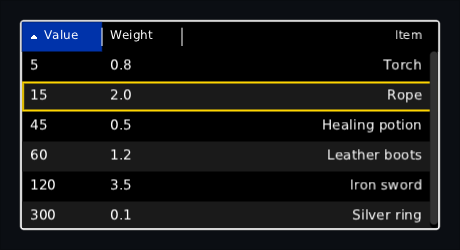
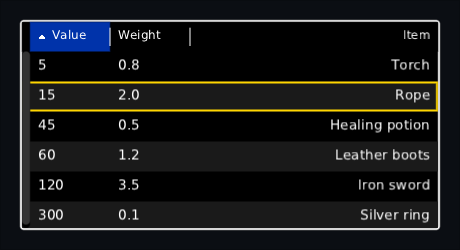
fix: right-to-left scrollbars sat on the wrong side
In a right-to-left screen the text begins at the right edge, which is exactly
where the up-and-down scrollbar was pinned, so the bar lay across the first
letter or two of every line. Sideways bars were already mirrored; vertical ones
were not.

The bar now hangs on the edge the lines end at: still the right in an ordinary
screen, the left in a mirrored one. Done in ScrollArea, LazyList and LazyGrid,
which each place their own bar.

Two knock-ons went with it. A row narrower than a vertical lazy list used to sit
against the left whichever way the screen read, so the moved bar would have
covered it; it now starts against the right, as a scroll area's contents and a
grid's cells already did. And a Table keeps a gutter for its bar so its titles
line up with its cells: that gutter is now on the left in a mirrored table,
which is the one wiki picture that changed.

diff --git a/composegl-ui/src/commonTest/kotlin/dev/wildware/composegl/ui/widget/MirroredScrollingUiTest.kt b/composegl-ui/src/commonTest/kotlin/dev/wildware/composegl/ui/widget/MirroredScrollingUiTest.kt
@@ -19,6 +19,7 @@ import dev.wildware.composegl.ui.modifier.height
 import dev.wildware.composegl.ui.modifier.size
 import dev.wildware.composegl.ui.modifier.testTag
 import dev.wildware.composegl.ui.modifier.width
+import dev.wildware.composegl.ui.node.UiNode
 import dev.wildware.composegl.ui.testing.UiTest
 import dev.wildware.composegl.ui.testing.uiTest
 import kotlin.test.AfterTest
@@ -46,8 +47,27 @@ class MirroredScrollingUiTest {
 
     private fun UiTest.left(tag: String) = node(tag).boundsInRoot.left
 
+    /** Where the up-and-down bar of the scrolling widget tagged [tag] was put on the screen. */
+    private fun UiTest.verticalBar(tag: String) =
+        checkNotNull(named(node(tag), "scroll.bar.y")) { "nothing under $tag draws a vertical bar:\n" + dump() }
+            .boundsInRoot
+
+    /** The nearest node called [name], so that an outer scroll area finds its own bar and not an inner one. */
+    private fun named(from: UiNode, name: String): UiNode? {
+        var level = listOf(from)
+        while (level.isNotEmpty()) {
+            level.firstOrNull { it.name == name }?.let { return it }
+            level = level.flatMap { it.children }
+        }
+        return null
+    }
+
     @Composable
     private fun Square(tag: String) = Box(Modifier.size(50f).testTag(tag))
+
+    /** A line of a page: narrower than the window, so where it sits can be seen. */
+    @Composable
+    private fun Line(tag: String) = Box(Modifier.size(200f, 50f).testTag(tag))
 
     @Test
     fun `a lazy row starts on the right and a drag to the right scrolls it on`() {
@@ -215,6 +235,139 @@ class MirroredScrollingUiTest {
         ui.settle()
 
         assertEquals(250f, ui.left("item0"))
+    }
+
+    // --- which edge the up-and-down bar sits on --------------------------------------------------
+
+    @Test
+    fun `a mirrored scroll area hangs its vertical bar on the left where the lines end`() {
+        val state = ScrollState()
+        val ui = open {
+            ScrollArea(Modifier.size(300f, 200f).testTag("page"), state) {
+                Column { repeat(20) { Line("line$it") } }
+            }
+        }
+
+        val bar = ui.verticalBar("page")
+        assertEquals(0f, bar.left, "the bar is against the left edge")
+        assertEquals(8f, bar.right)
+
+        val first = ui.node("line0").boundsInRoot
+        assertEquals(300f, first.right, "a line begins against the right edge")
+        assertTrue(first.left >= bar.right, "and none of it is hidden under the bar: $first against $bar")
+    }
+
+    @Test
+    fun `the same scroll area left to right keeps its vertical bar on the right`() {
+        val ui = open(LayoutDirection.Ltr) {
+            ScrollArea(Modifier.size(300f, 200f).testTag("page")) {
+                Column { repeat(20) { Line("line$it") } }
+            }
+        }
+
+        val bar = ui.verticalBar("page")
+        assertEquals(292f, bar.left)
+        assertEquals(300f, bar.right, "unchanged for a screen that reads the usual way")
+        assertEquals(0f, ui.left("line0"))
+    }
+
+    @Test
+    fun `the thumb of a mirrored vertical bar is grabbed and dragged down the left edge`() {
+        val state = ScrollState()
+        val ui = open {
+            ScrollArea(Modifier.size(300f, 200f).testTag("page"), state) {
+                Column { repeat(20) { Line("line$it") } }
+            }
+        }
+
+        // A 200-tall window onto 1000 of lines: the thumb is a fifth of the bar, 40 long, with 160
+        // of travel for 800 of contents.
+        ui.press(Offset(4f, 5f))
+        assertEquals(0f, state.y, 0.5f, "a press on the thumb where it already is does not move it")
+        ui.dragTo(Offset(4f, 85f))
+        ui.release()
+        ui.settle()
+
+        assertEquals(400f, state.y, 1f, "half way down the travel is half way down the list")
+    }
+
+    @Test
+    fun `a press on the right edge of a mirrored area misses the bar and reaches the contents`() {
+        val state = ScrollState()
+        val ui = open {
+            ScrollArea(Modifier.size(300f, 200f).testTag("page"), state) {
+                Column { repeat(20) { Line("line$it") } }
+            }
+        }
+
+        ui.press(Offset(296f, 180f))
+        ui.release()
+        ui.settle()
+
+        assertEquals(0f, state.y, "the old edge is ordinary content now and a press on it scrolls nothing")
+    }
+
+    @Test
+    fun `a mirrored lazy column hangs its bar on the left and starts its rows on the right`() {
+        val ui = open {
+            LazyColumn(20, Modifier.size(300f, 200f).testTag("list")) { Line("row$it") }
+        }
+
+        val bar = ui.verticalBar("list")
+        assertEquals(0f, bar.left)
+        assertEquals(8f, bar.right)
+
+        val first = ui.node("row0").boundsInRoot
+        assertEquals(300f, first.right, "the row begins against the right edge")
+        assertTrue(first.left >= bar.right, "clear of the bar: $first against $bar")
+    }
+
+    @Test
+    fun `a mirrored vertical grid hangs its bar on the left`() {
+        val ui = open {
+            LazyVerticalGrid(30, GridCells.Fixed(3), Modifier.size(300f, 200f).testTag("grid")) { Square("cell$it") }
+        }
+
+        val bar = ui.verticalBar("grid")
+        assertEquals(0f, bar.left)
+        assertEquals(8f, bar.right)
+        assertEquals(250f, ui.left("cell0"), "the first cell is still against the right")
+    }
+
+    @Test
+    fun `a scroll area inside a mirrored one puts its bar on its own left edge`() {
+        val ui = open {
+            ScrollArea(Modifier.size(300f, 200f).testTag("outer")) {
+                Column {
+                    repeat(4) { Line("outerLine$it") }
+                    ScrollArea(Modifier.size(200f, 100f).testTag("inner")) {
+                        Column { repeat(20) { Box(Modifier.size(100f, 50f).testTag("innerLine$it")) } }
+                    }
+                }
+            }
+        }
+
+        val outer = ui.verticalBar("outer")
+        val inner = ui.verticalBar("inner")
+        assertEquals(0f, outer.left, "the outer bar is on the screen's left")
+        assertEquals(100f, inner.left, "and the inner one on the left of its own box")
+        assertEquals(108f, inner.right)
+    }
+
+    @Test
+    fun `a mirrored table keeps the room for its bar on the left so the columns line up`() {
+        val ui = open {
+            Table(List(30) { it }, Modifier.size(300f, 200f).testTag("table")) {
+                column("One", width = 100f) { Box(Modifier.size(80f, 20f).testTag("one$it")) }
+                column("Two", width = 100f) { Box(Modifier.size(80f, 20f).testTag("two$it")) }
+            }
+        }
+
+        val bar = ui.verticalBar("table")
+        val one = ui.node("one0").boundsInRoot
+        val two = ui.node("two0").boundsInRoot
+        assertTrue(one.left > two.left, "the first column is the right-hand one: $one against $two")
+        assertTrue(two.left >= bar.right, "and the last column clears the bar on the left: $two against $bar")
     }
 
     @Test

diff --git a/composegl-ui/src/commonMain/kotlin/dev/wildware/composegl/ui/widget/Table.kt b/composegl-ui/src/commonMain/kotlin/dev/wildware/composegl/ui/widget/Table.kt
@@ -460,12 +460,18 @@ internal data class TableSizing(
 /** How many halvings find a dragged edge: well under a hundredth of a pixel across any screen. */
 private const val EdgeSearchSteps = 24
 
-/** The x of every column's start edge, with [inner] the room the columns are laid across. */
-private fun columnStarts(widths: FloatArray, inner: Float, direction: LayoutDirection): FloatArray {
+/**
+ * The x of every column's start edge, with [inner] the room the columns are laid across.
+ *
+ * [gutter] is the room the scroll bar keeps for itself, at the end of the row: the right of an
+ * ordinary row, and the left of a mirrored one, which is why the mirrored columns are counted back
+ * from the far edge rather than from [inner].
+ */
+private fun columnStarts(widths: FloatArray, inner: Float, gutter: Float, direction: LayoutDirection): FloatArray {
     val starts = FloatArray(widths.size)
     var along = 0f
     for (index in widths.indices) {
-        starts[index] = if (direction == LayoutDirection.Rtl) inner - along - widths[index] else along
+        starts[index] = if (direction == LayoutDirection.Rtl) inner + gutter - along - widths[index] else along
         along += widths[index]
     }
     return starts
@@ -669,7 +675,7 @@ private data class HeaderPolicy(
         }
         val height = constraints.constrainHeight(cells.maxOfOrNull { it.height } ?: 0f)
         val handles = List(dividers.size) { slot -> measurables[count + slot].measure(Constraints.fixed(DividerGrab, height)) }
-        val starts = columnStarts(widths, inner, layoutDirection)
+        val starts = columnStarts(widths, inner, sizing.gutter, layoutDirection)
         val rtl = layoutDirection == LayoutDirection.Rtl
 
         return layout(width, height) {
@@ -748,7 +754,7 @@ private data class RowPolicy(val sizing: TableSizing) : MeasurePolicy {
             measurables[index].measure(Constraints(widths[index], widths[index], 0f, constraints.maxHeight))
         }
         val height = constraints.constrainHeight(cells.maxOfOrNull { it.height } ?: 0f)
-        val starts = columnStarts(widths, inner, layoutDirection)
+        val starts = columnStarts(widths, inner, sizing.gutter, layoutDirection)
         return layout(width, height) {
             cells.forEachIndexed { index, cell -> cell.at(starts[index], (height - cell.height) / 2f) }
         }

diff --git a/composegl-ui/src/commonMain/kotlin/dev/wildware/composegl/ui/widget/LazyList.kt b/composegl-ui/src/commonMain/kotlin/dev/wildware/composegl/ui/widget/LazyList.kt
@@ -694,16 +694,21 @@ private class LazyPolicy(
 
         pin(starts, placeables, scrolled)
 
-        val mirrored = !vertical && layoutDirection == LayoutDirection.Rtl
+        val rtl = layoutDirection == LayoutDirection.Rtl
+        val mirrored = !vertical && rtl
         return layout(width, height) {
             placeables.forEachIndexed { slot, placeable ->
                 when {
-                    vertical -> placeable.at(0f, starts[slot])
+                    // A row narrower than the list hangs off the edge it starts at, which a mirrored
+                    // screen puts on the right — where a left-to-right one has it on the left.
+                    vertical -> placeable.at(if (rtl) width - placeable.width else 0f, starts[slot])
                     mirrored -> placeable.at(width - starts[slot] - placeable.width, 0f)
                     else -> placeable.at(starts[slot], 0f)
                 }
             }
-            if (vertical) bar?.at(width - thickness, 0f) else bar?.at(0f, height - thickness)
+            // The bar hangs on the edge the rows end at: the left of a mirrored list, so that it does
+            // not lie across the first letter of every row.
+            if (vertical) bar?.at(if (rtl) 0f else width - thickness, 0f) else bar?.at(0f, height - thickness)
         }
     }
 

diff --git a/composegl-ui/src/commonMain/kotlin/dev/wildware/composegl/ui/widget/Scroll.kt b/composegl-ui/src/commonMain/kotlin/dev/wildware/composegl/ui/widget/Scroll.kt
@@ -213,10 +213,13 @@ private class ScrollPolicy(
 
         // In a right-to-left screen the contents start against the right, and x is how far they have
         // moved right from there.
-        val left = if (layoutDirection == LayoutDirection.Rtl) width - inside.width + x else -x
+        val rtl = layoutDirection == LayoutDirection.Rtl
+        val left = if (rtl) width - inside.width + x else -x
         return layout(width, height) {
             inside.at(left, -y)
-            barY?.at(width - thickness, 0f)
+            // The up-and-down bar hangs on the edge the lines end at, which a mirrored screen puts on
+            // the left. On the right it would lie across the first letter of every line.
+            barY?.at(if (rtl) 0f else width - thickness, 0f)
             barX?.at(0f, height - thickness)
         }
     }

diff --git a/composegl-ui/src/commonMain/kotlin/dev/wildware/composegl/ui/widget/LazyGrid.kt b/composegl-ui/src/commonMain/kotlin/dev/wildware/composegl/ui/widget/LazyGrid.kt
@@ -355,7 +355,10 @@ private class LazyGridPolicy(
                 val y = if (vertical) start else sideways
                 placeable.at(if (rightToLeft) width - x - placeable.width else x, y)
             }
-            if (vertical) bar?.at(width - thickness, 0f) else bar?.at(0f, height - thickness)
+            // The bar hangs on the edge the lines of cells end at, which is the left of a mirrored
+            // grid: on the right it would lie over the first cell of every line.
+            val barX = if (rightToLeft) 0f else width - thickness
+            if (vertical) bar?.at(barX, 0f) else bar?.at(0f, height - thickness)
         }
     }
 

diff --git a/docs/wiki/Localisation.md b/docs/wiki/Localisation.md
@@ -63,6 +63,7 @@ What mirrors:
 | `Text`, `TextField` | `Start`-aligned text, and a field's text and placeholder, sit on the right |
 | `LazyRow`, sideways `ScrollArea`, `LazyHorizontalGrid` | start at the right; dragging right, the wheel and the scrollbar scroll on towards the left |
 | `LazyVerticalGrid` | the first column is on the right |
+| `LazyColumn`, up-and-down `ScrollArea`, `LazyVerticalGrid`, `Table` | the up-and-down scrollbar hangs on the **left** edge, where the lines end, so it never lies over the first letter of a line; a row narrower than the list starts against the right, and a table keeps the bar's gutter on the left so its columns still line up with its titles |
 | `Slider` | the minimum is on the right; the Left arrow and the pad's left raise the value |
 
 What does **not** mirror, on purpose:

diff --git a/docs/wiki/Widgets.md b/docs/wiki/Widgets.md
@@ -858,6 +858,10 @@ Both remember how far they were scrolled when their screen is left and come
 back to, as long as a `SaveableStateHolder` is above them — see
 [[Saving state]].
 
+The bar sits over the contents rather than beside them, on the edge the lines end at: the
+right of an ordinary screen, and the **left** of a right-to-left one, where the text begins
+on the right. See [[Localisation]].
+
 ---
 
 ## Panning and zooming
